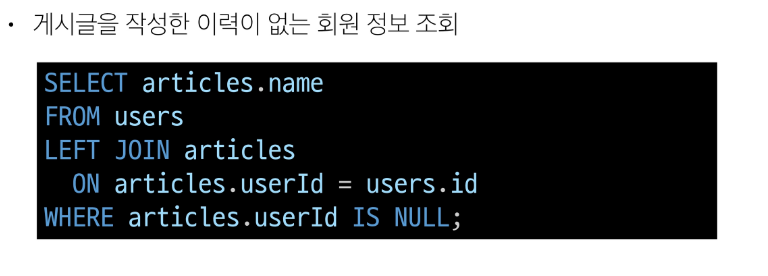
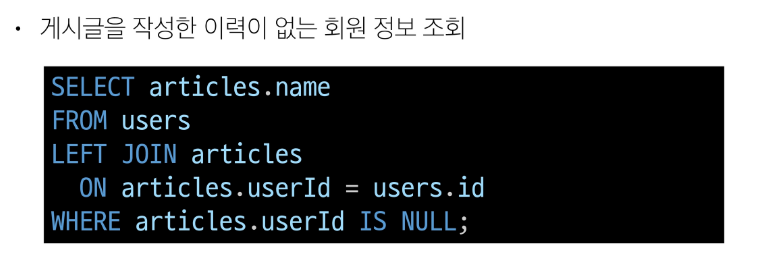
rename file

Changed region(s): [[0.0303, 0.2154, 0.9697, 0.9538], [0.0, 0.0308, 0.6364, 0.1538]]

diff --git a/WEB/database/01-sql/README.md b/WEB/database/01-sql/README.md
@@ -177,4 +177,4 @@
 > ![img_51.png](image02/img_51.png)
 > ![img_52.png](image02/img_52.png)
 > ![img_53.png](image02/img_53.png)
-> ![img_54.png](image02/img_54.png)
+> ![img.png](image02/img_54.png)
